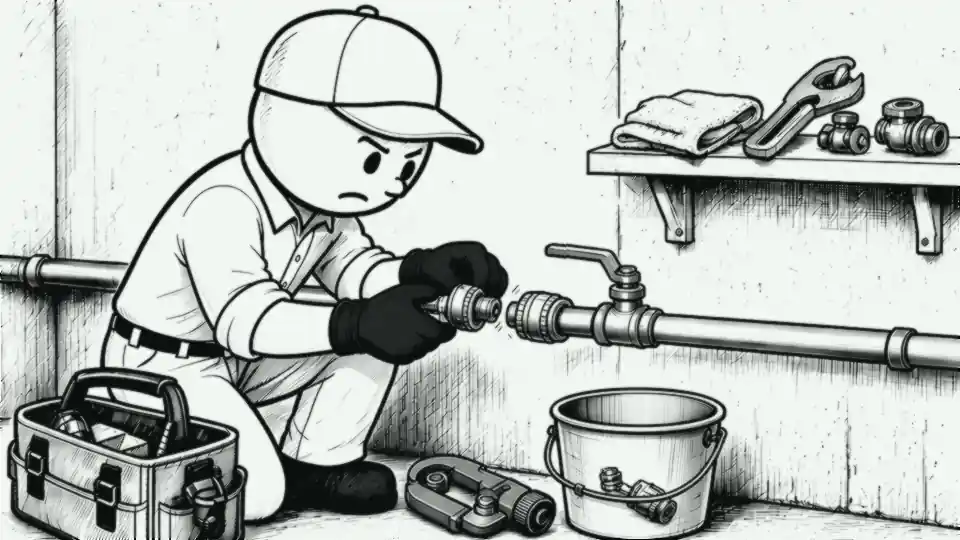
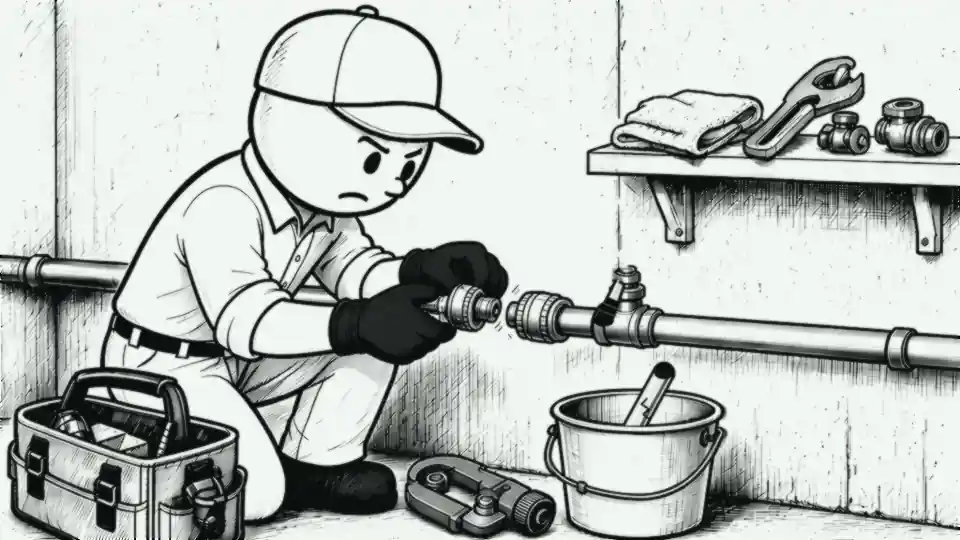
Scenes v7.2: burst fixes (lever crosswise/closed in 2-4, open after the frame-5 reopen, cut piece is a short cracked pipe in the bucket, shelf contents constant)

Changed region(s): [[0.5625, 0.6519, 0.7812, 1.0], [0.5625, 0.4444, 0.6562, 0.6222]]

diff --git a/scenes/burst.js b/scenes/burst.js
@@ -1,1 +1,1 @@
-(window.EESceneData=window.EESceneData||{})["burst"]={"kind":"kf","w":960,"h":540,"title":"Burst pipe repaired","alt":"He closes the ball valve first, clamps a tubing cutter on the split and spins it, sets the cutter on the floor and lifts out the cracked piece, pushes a push-to-connect repair coupling across the gap, opens the valve slowly, wraps a dry towel around the coupling to check for leaks, and tips his cap.","frames":[{"src":"scenes/kf/burst-1.webp?v=7","hold":460,"tw":{"x":-3},"o":[{"x":38,"y":84,"t":"word","text":"WATER OFF","s":38},{"x":548,"y":375,"t":"drips"}]},{"src":"scenes/kf/burst-2.webp?v=7","hold":460,"tw":{"y":-4},"o":[{"x":525,"y":188,"t":"effort","a":-40}]},{"src":"scenes/kf/burst-3.webp?v=7","hold":440,"tw":{"x":4,"ms":240}},{"src":"scenes/kf/burst-4.webp?v=7","hold":440,"tw":{"sy":0.99,"ms":200},"o":[{"x":488,"y":234,"t":"effort","a":-50}]},{"src":"scenes/kf/burst-5.webp?v=7","hold":460,"tw":{"y":-4},"o":[{"x":722,"y":236,"t":"word","text":"SLOWLY","s":32}]},{"src":"scenes/kf/burst-6.webp?v=7","hold":440,"tw":{"x":-4,"ms":240}},{"src":"scenes/kf/burst-7.webp?v=7","hold":1000,"tw":{"y":6,"r":-0.8,"ms":300},"o":[{"x":110,"y":100,"t":"check"}]}],"placeholder":false};
+(window.EESceneData=window.EESceneData||{})["burst"]={"kind":"kf","w":960,"h":540,"title":"Burst pipe repaired","alt":"He closes the ball valve first, clamps a tubing cutter on the split and spins it, sets the cutter on the floor and lifts out the cracked piece, pushes a push-to-connect repair coupling across the gap, opens the valve slowly, wraps a dry towel around the coupling to check for leaks, and tips his cap.","frames":[{"src":"scenes/kf/burst-1.webp?v=7.2","hold":460,"tw":{"x":-3},"o":[{"x":38,"y":84,"t":"word","text":"WATER OFF","s":38},{"x":548,"y":375,"t":"drips"}]},{"src":"scenes/kf/burst-2.webp?v=7.2","hold":460,"tw":{"y":-4},"o":[{"x":525,"y":188,"t":"effort","a":-40}]},{"src":"scenes/kf/burst-3.webp?v=7.2","hold":440,"tw":{"x":4,"ms":240}},{"src":"scenes/kf/burst-4.webp?v=7.2","hold":440,"tw":{"sy":0.99,"ms":200},"o":[{"x":488,"y":234,"t":"effort","a":-50}]},{"src":"scenes/kf/burst-5.webp?v=7.2","hold":460,"tw":{"y":-4},"o":[{"x":722,"y":236,"t":"word","text":"SLOWLY","s":32}]},{"src":"scenes/kf/burst-6.webp?v=7.2","hold":440,"tw":{"x":-4,"ms":240}},{"src":"scenes/kf/burst-7.webp?v=7.2","hold":1000,"tw":{"y":6,"r":-0.8,"ms":300},"o":[{"x":110,"y":100,"t":"check"}]}],"placeholder":false};
